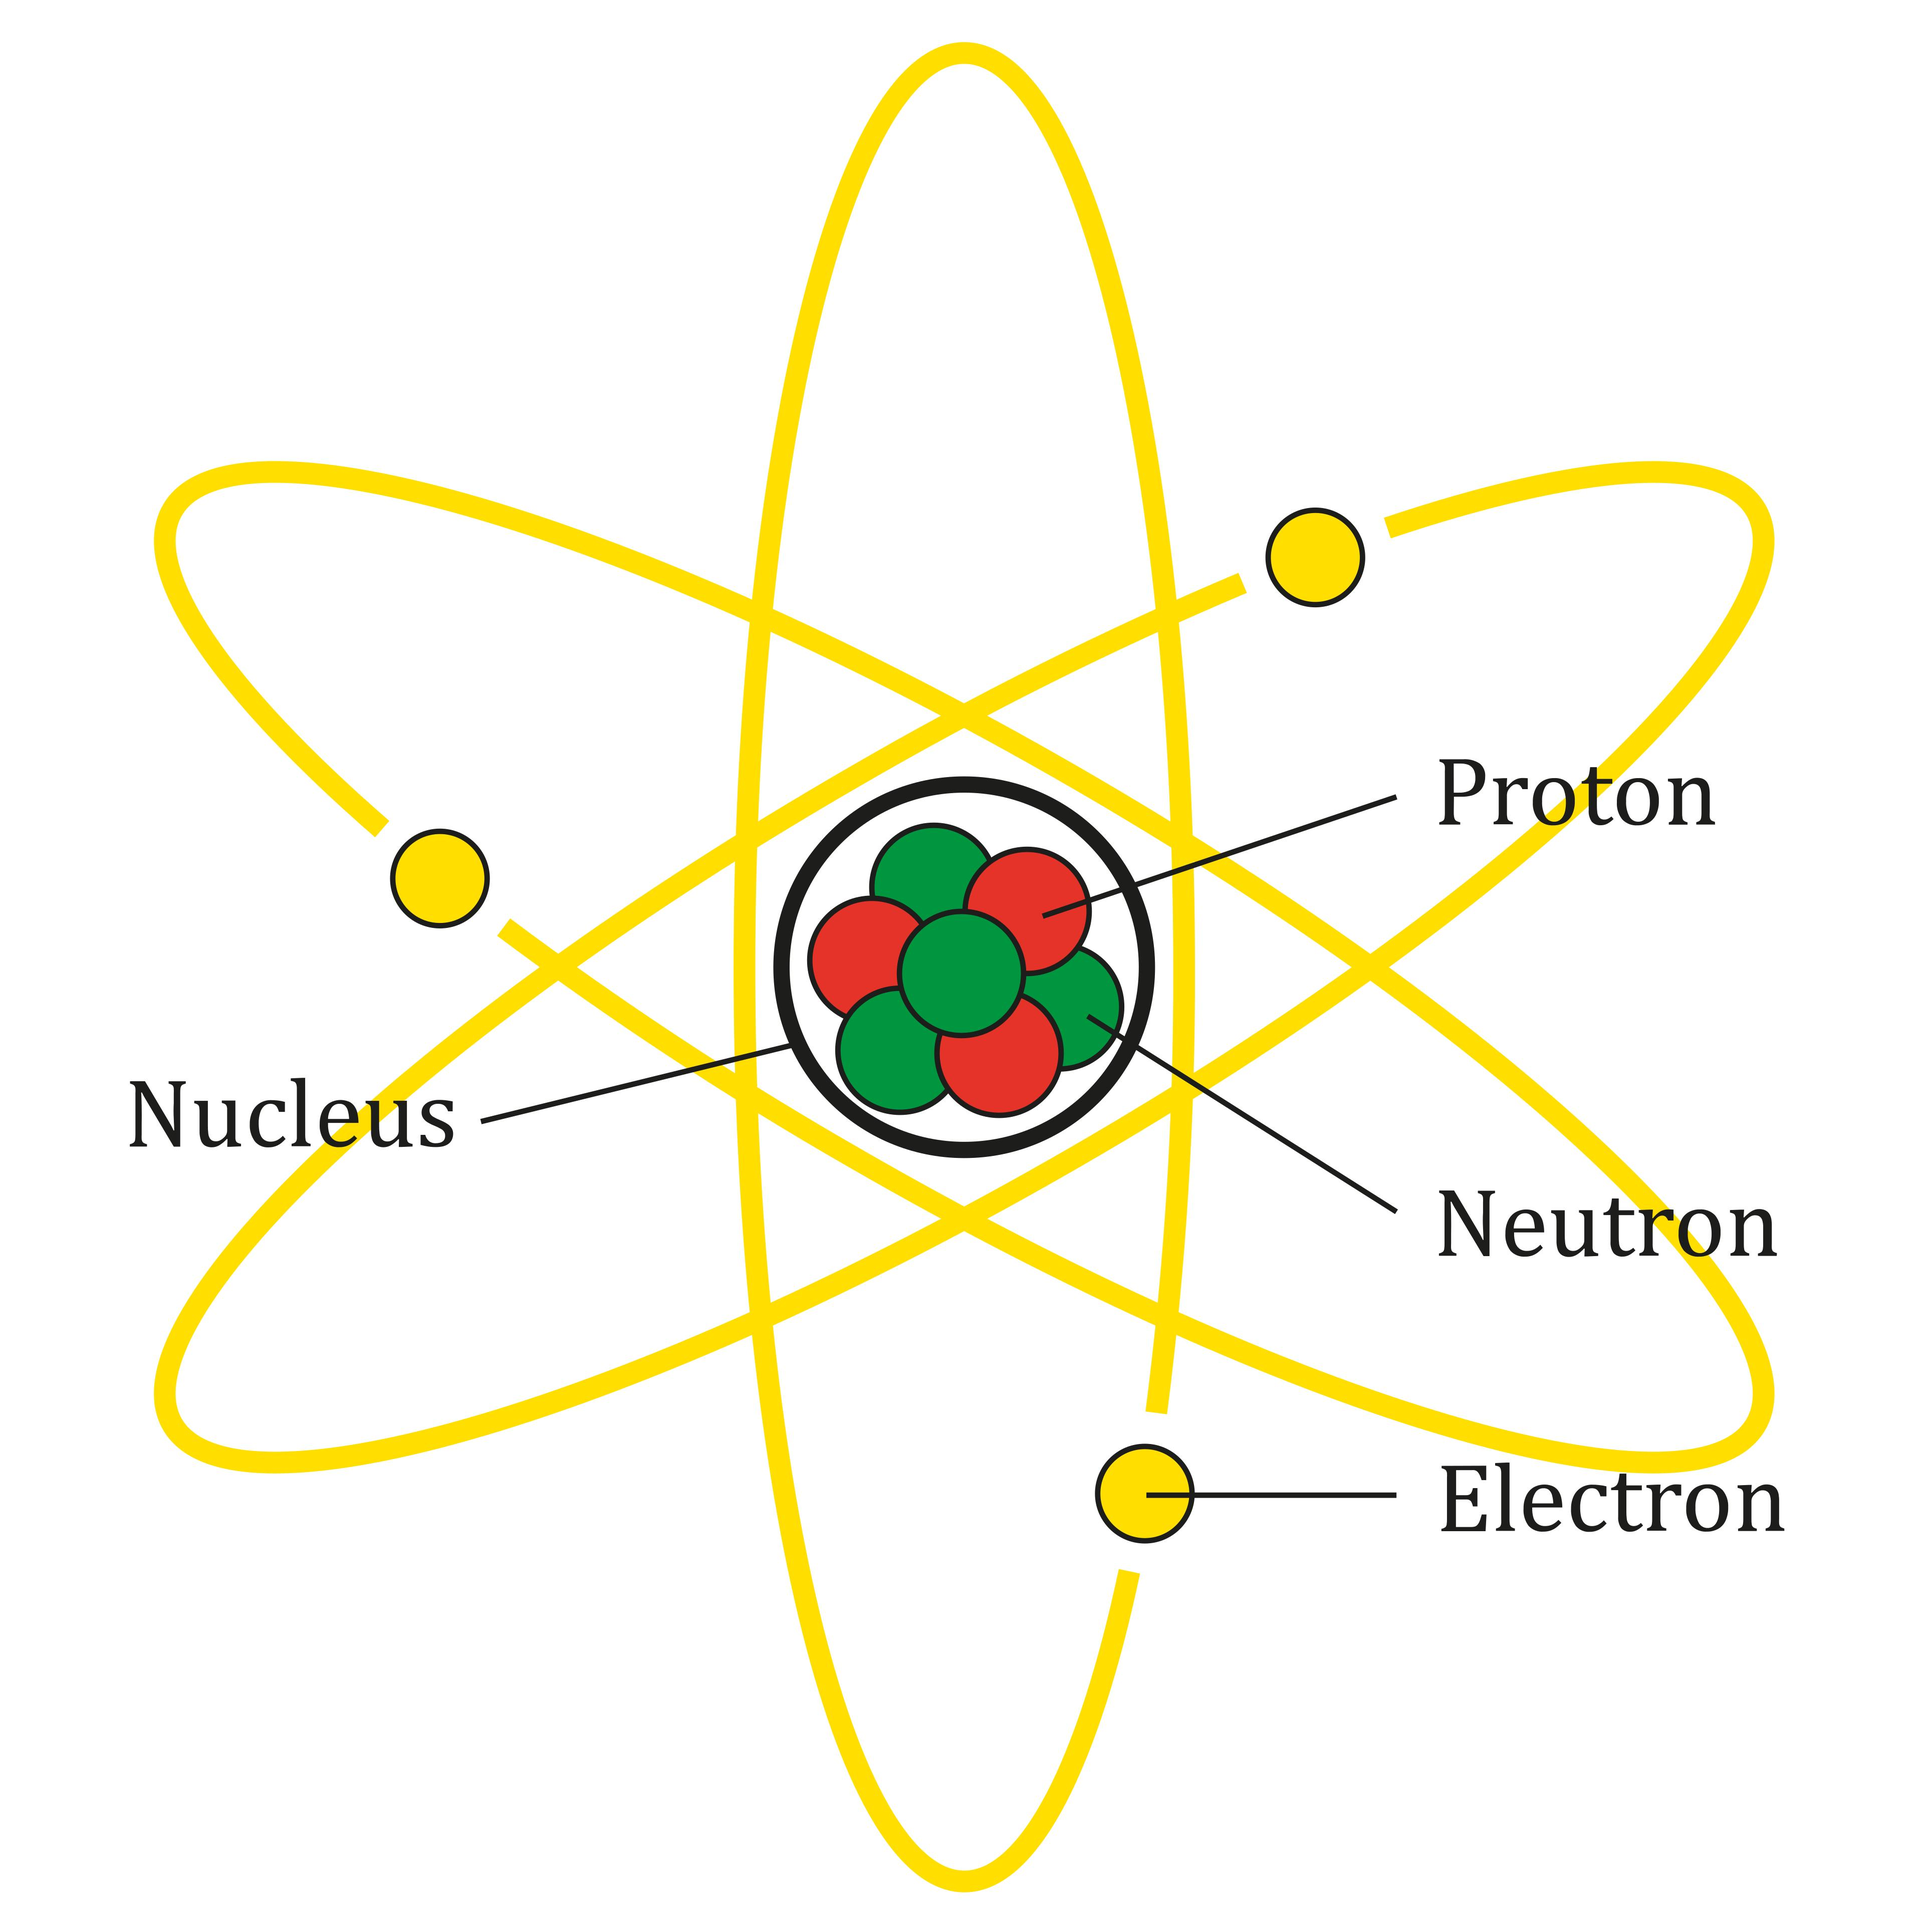
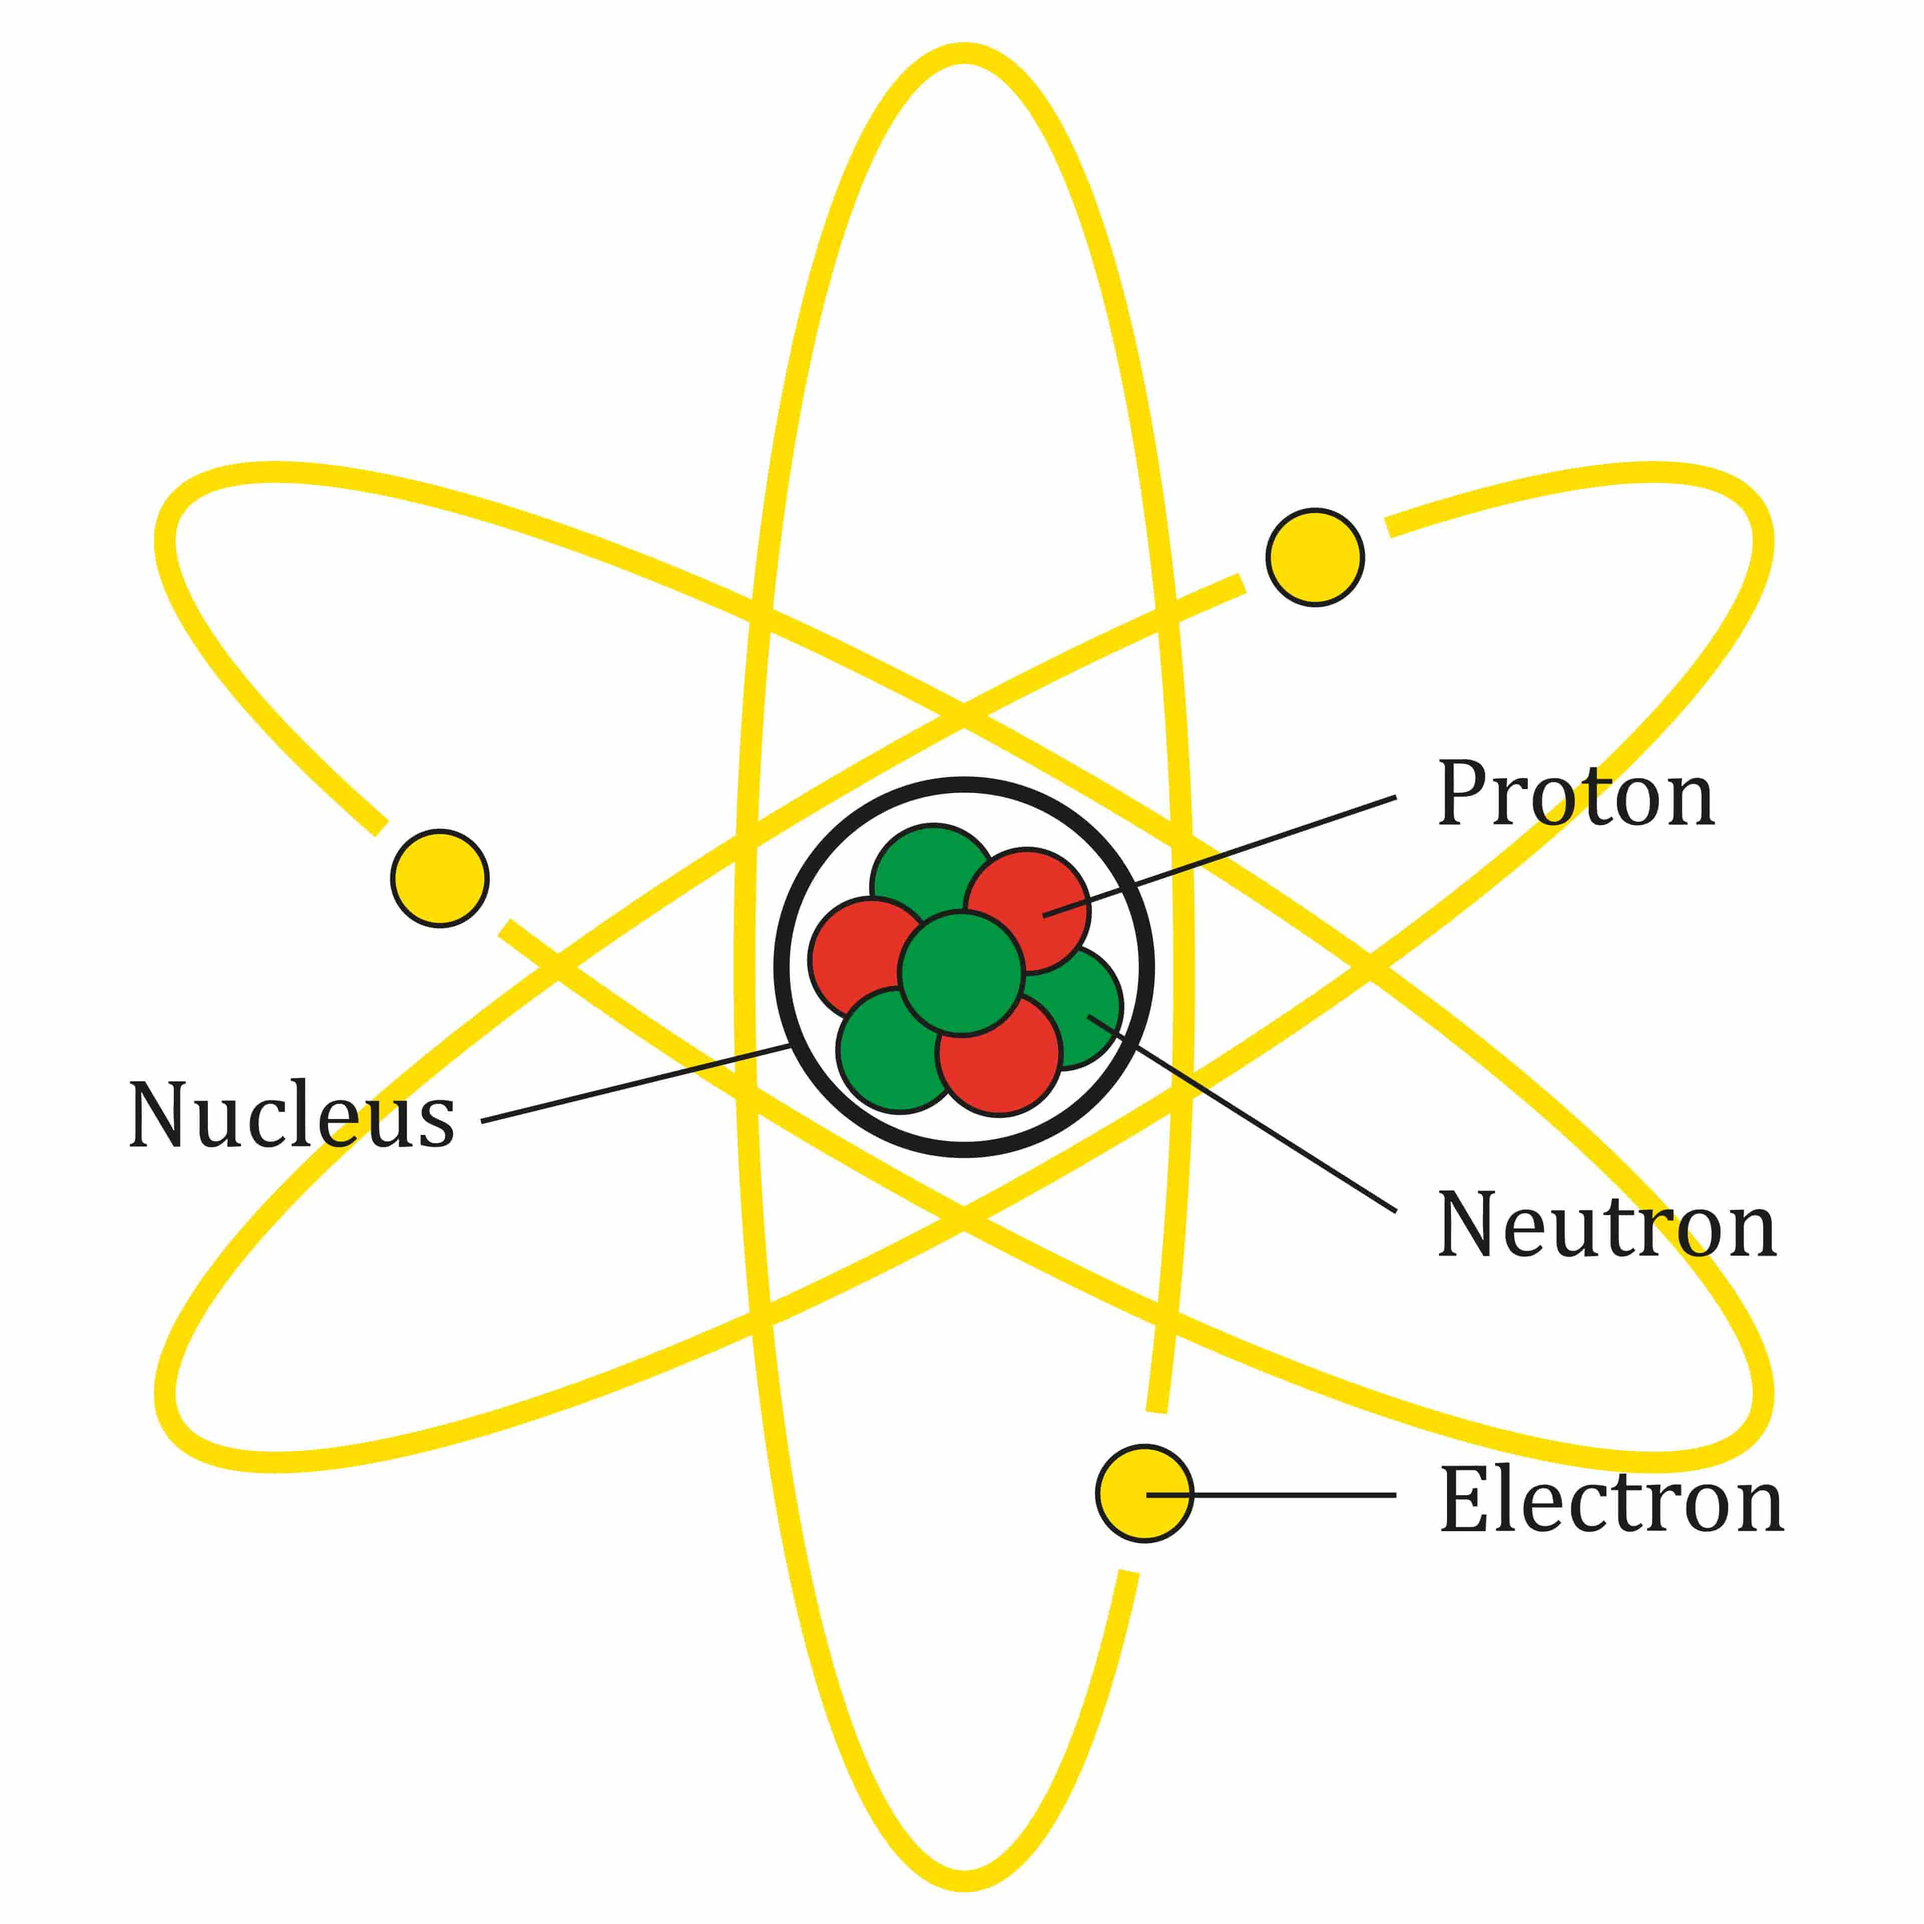
project upload fix 2

diff --git a/project/references.html b/project/references.html
@@ -12,9 +12,18 @@
 
     <link rel="preconnect" href="https://fonts.googleapis.com">
     <link rel="preconnect" href="https://fonts.gstatic.com" crossorigin>
+
     <link
+        rel="preload"
         href="https://fonts.googleapis.com/css2?family=Orbitron:wght@400;600;700&family=Roboto:wght@400;500;700&display=swap"
-        rel="stylesheet">
+        as="style"
+        onload="this.onload=null;this.rel='stylesheet'">
+
+    <noscript>
+        <link
+            rel="stylesheet"
+            href="https://fonts.googleapis.com/css2?family=Orbitron:wght@400;600;700&family=Roboto:wght@400;500;700&display=swap">
+    </noscript>
 
     <link rel="stylesheet" href="styles/project.css">
     <script src="scripts/project.js" defer></script>
@@ -262,4 +271,5 @@
     </footer>
 </body>
 </html>
+
 
